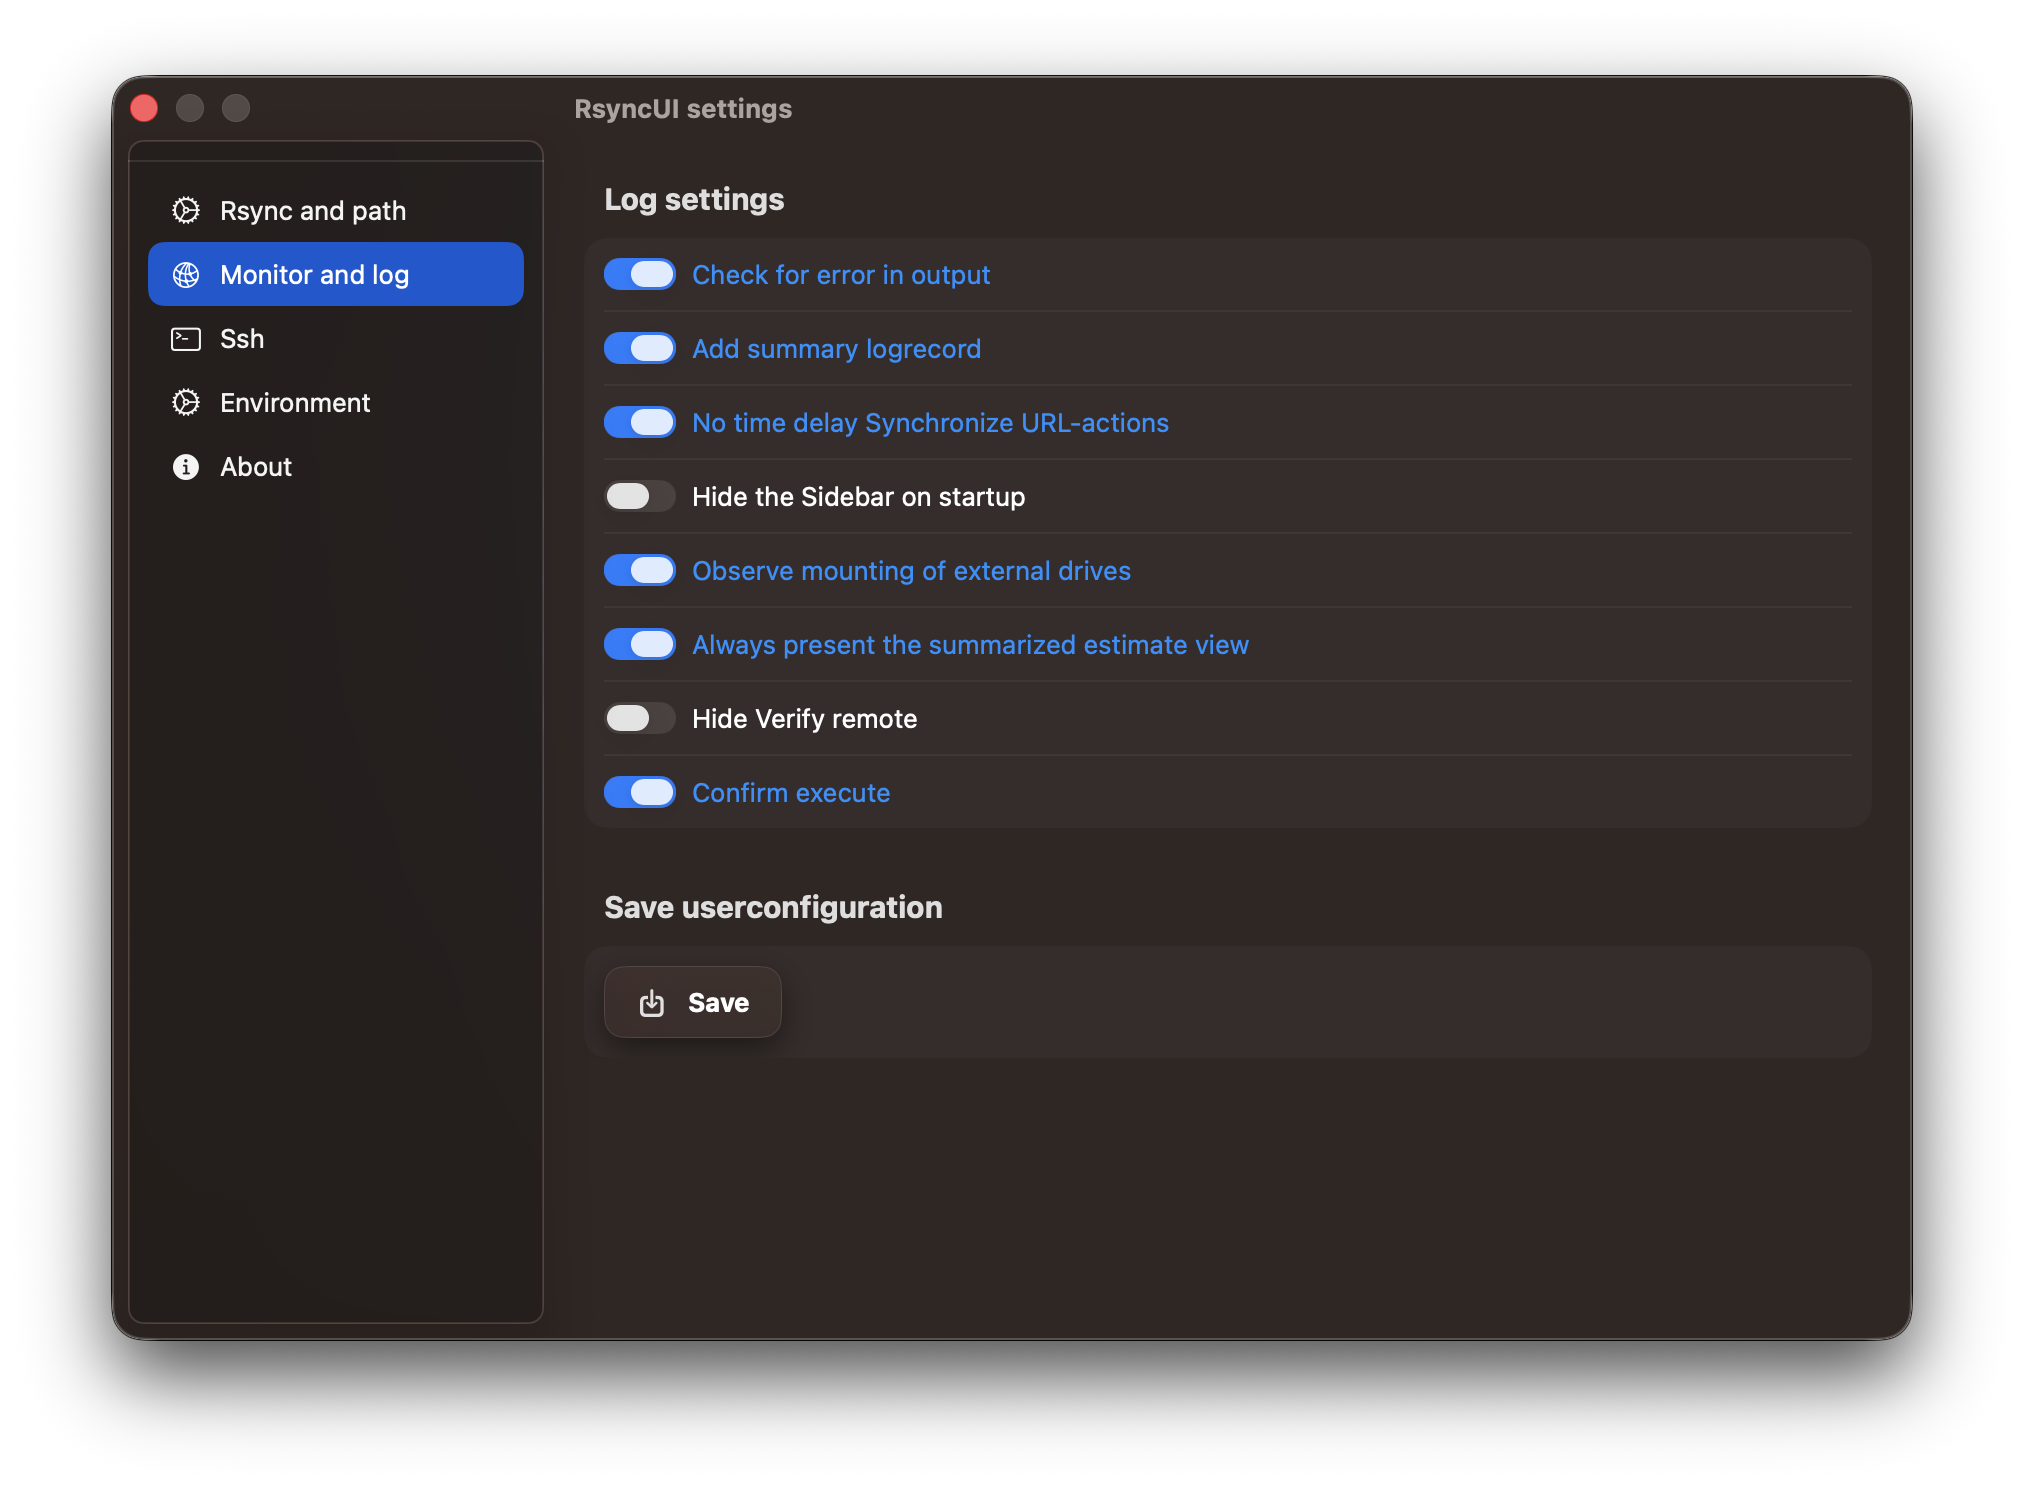
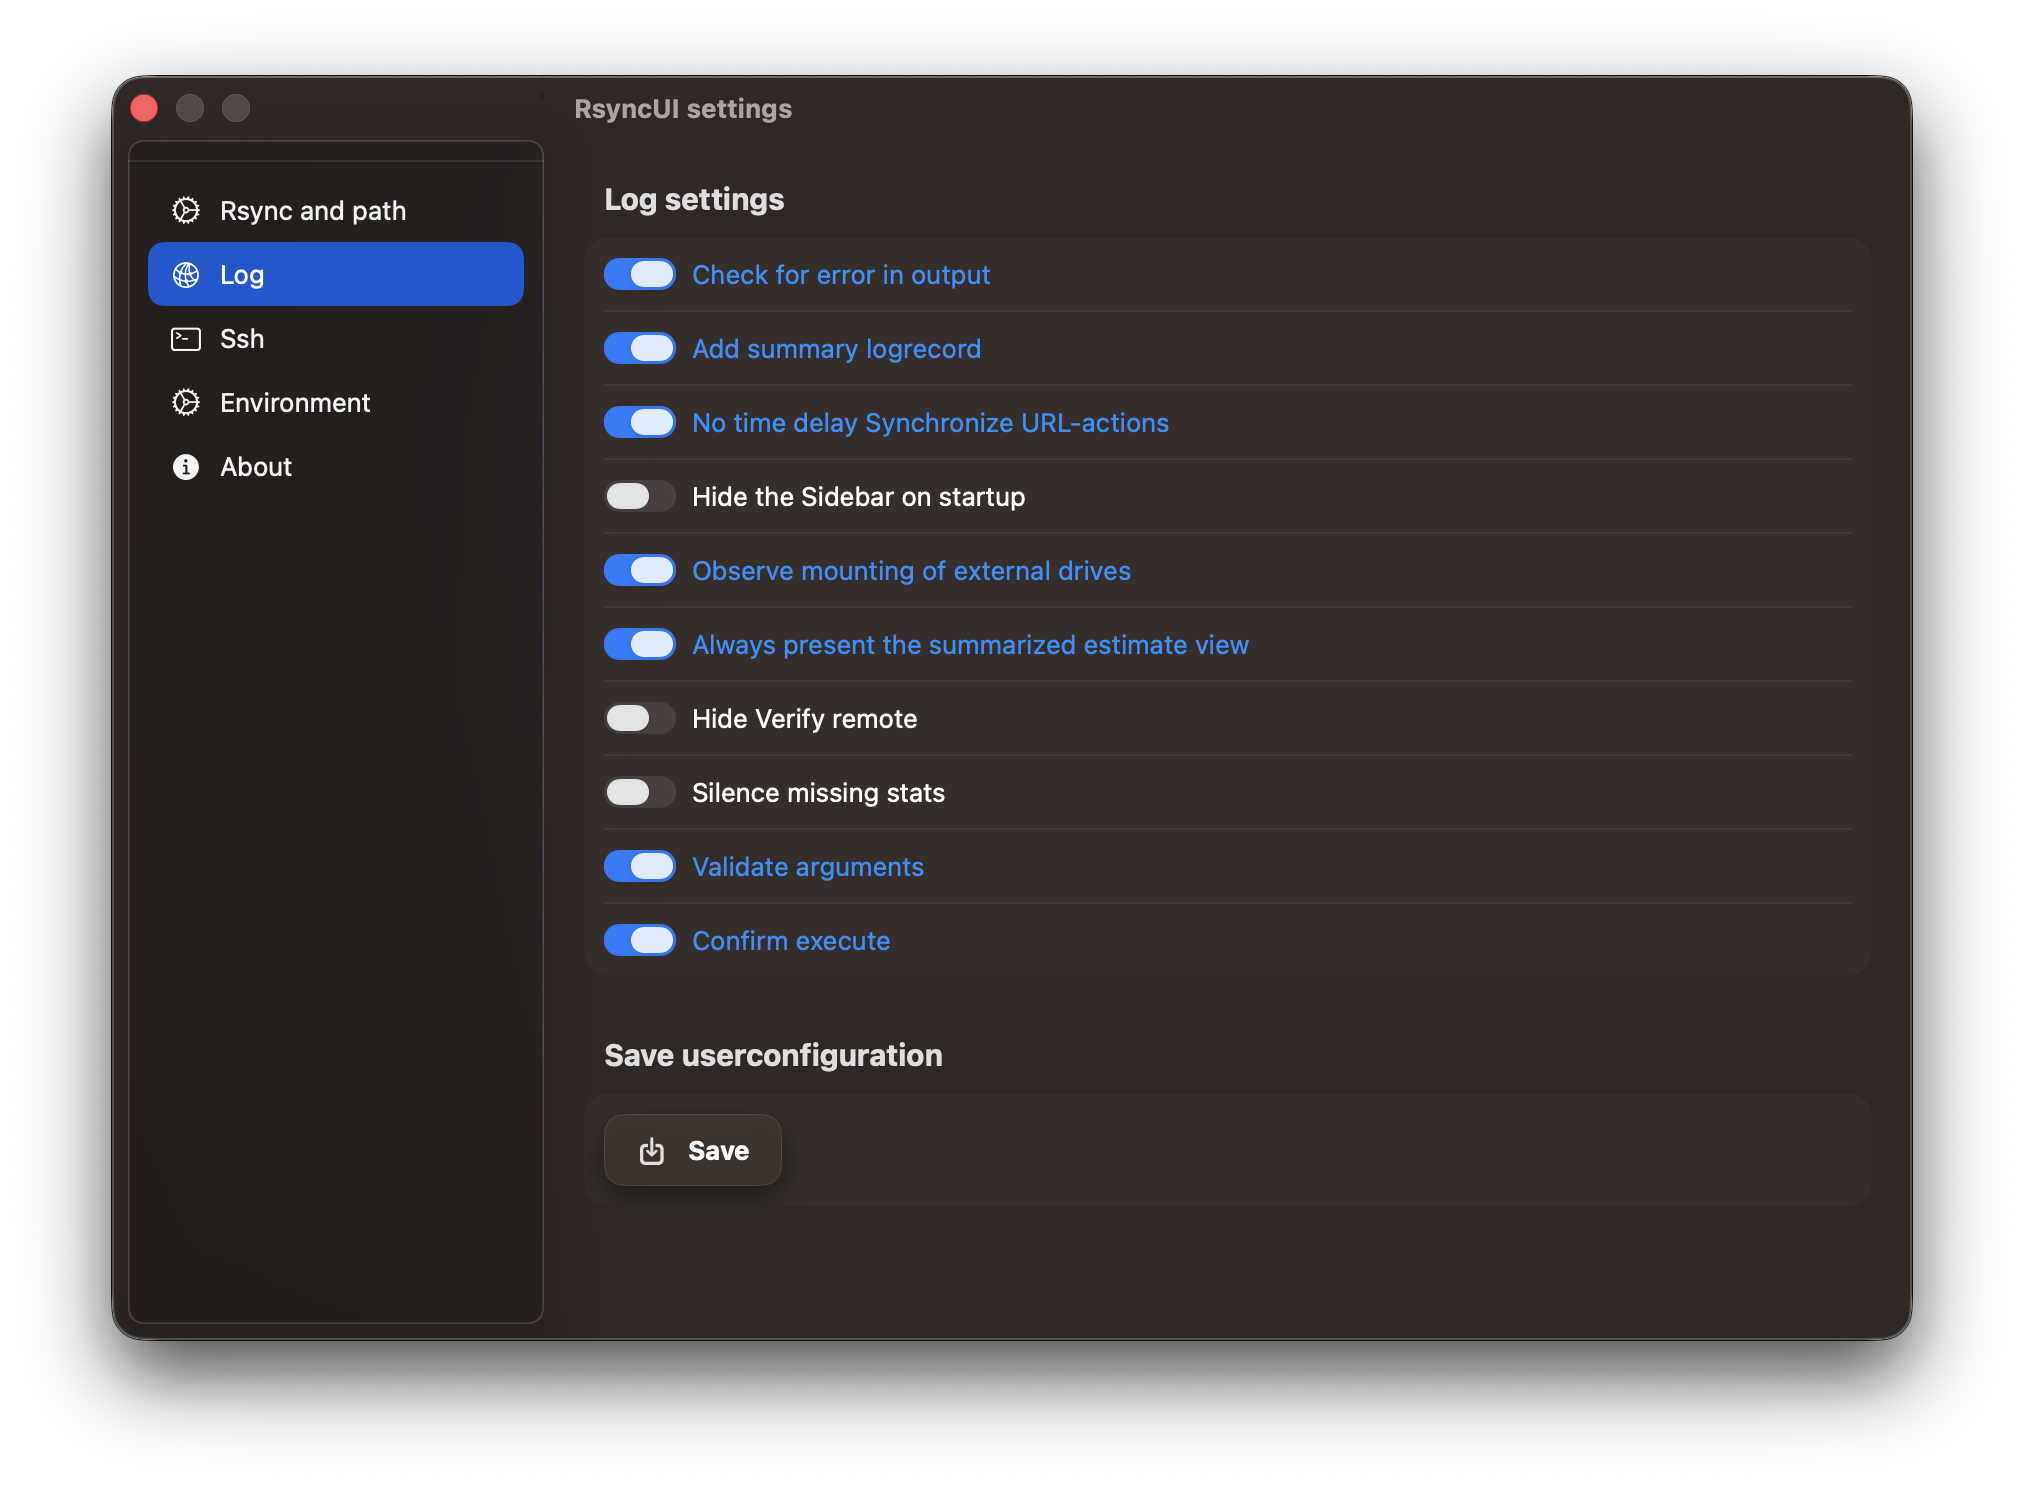
Update log settings documentation and screenshot
Expanded the log settings documentation to include details on 'Silence missing stats' and 'Validate arguments' options. Updated the corresponding screenshot to reflect these changes.

Changed region(s): [[0.2801, 0.5255, 0.4669, 0.8038], [0.1245, 0.1546, 0.1556, 0.2164]]

diff --git a/content/en/docs/settings/logsettings.md b/content/en/docs/settings/logsettings.md
@@ -38,9 +38,20 @@ After changing a setting, you have to save the changes to keep it next time you 
 
 - refer to section *"Verify remote"*, this is a kind of special function, default **not** enabled
 
-**Hide Schedule:**
+**Silence missing stats**
 
-- refer to section *"Schedule"*, hide the Schedule, default **not** enabled
+- stats is the summarized output from rsync, if on RsyncUI will notify if stats is missing after the termination signal is received
+- in version 2.8.4 the missing stats is *not likely* to happen du to the new *RsyncProcessStreaming*
+
+**Validate arguments**
+
+A user-selected verification mechanism for default parameters, such as `—delete`:
+
+- If the `—delete` parameter is included in the task configuration, the verification checks its presence or absence based on the task configuration’s state, which specifies whether a delete operation is required.
+- Other default validated parameters include `—archive`, `—compress`, and `—dry-run`.
+  - The `—archive` parameter is always enabled.
+  - The `—compress` parameter is only applicable for remote tasks.
+  - If RsyncUI requests an estimate, the validation checks that the `—dry-run` parameter is included within the arguments.
 
 **Confirm Execution:**
 
